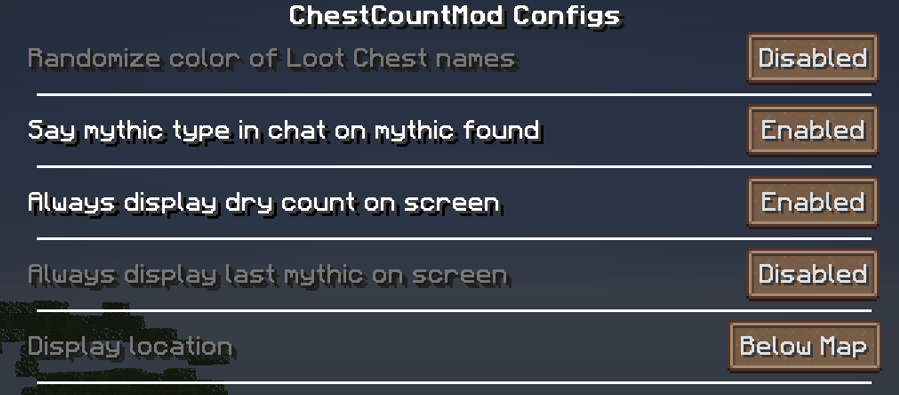
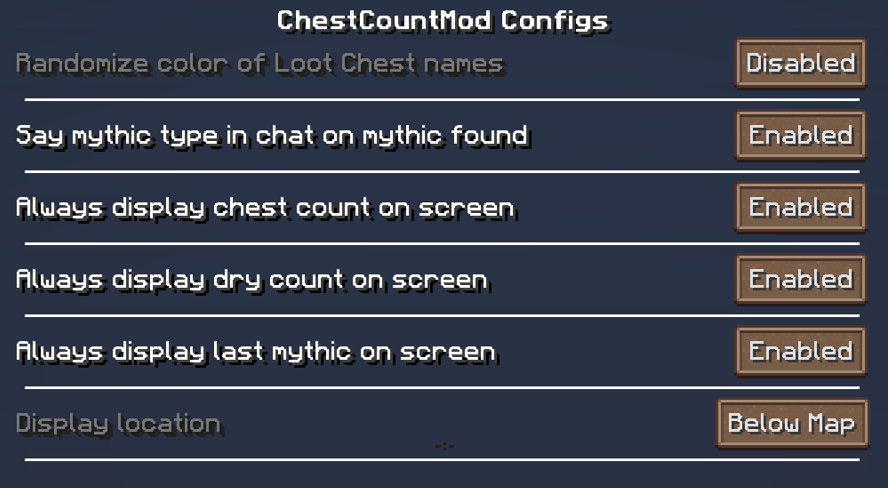
bug fixes and added total chest count display

diff --git a/chestcountmod/index.html b/chestcountmod/index.html
@@ -19,7 +19,7 @@
             <h3>You can install the mod like a normal mod: <a href="ChestCountMod.jar" download>Download</a></h3>
             <br>
             <h6>Here's the <a href="https://github.com/albarv340/chestcountmod" target="_blank">GitHub</a></h6>
-            <span class="unimportant">Last updated 2021-12-13</span>
+            <span class="unimportant">Last updated 2021-12-18</span>
             <!-- <h4>If you still want to use ChatTriggers you can do the following:</h4> -->
         </div>
         <br><br>
